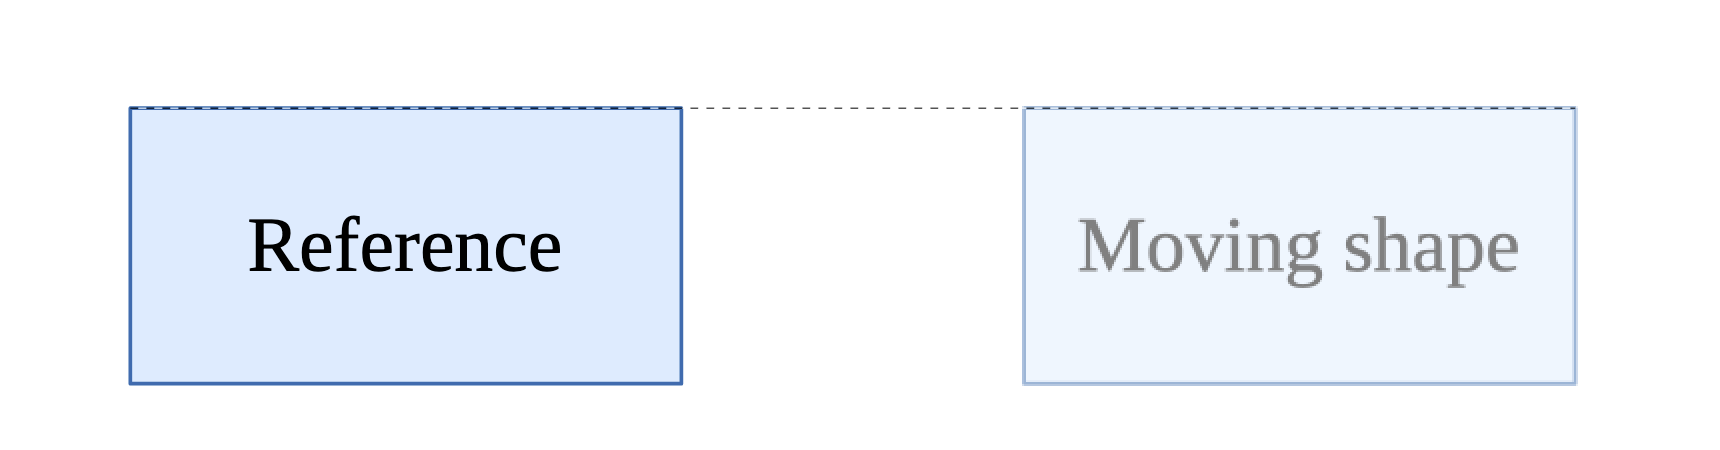
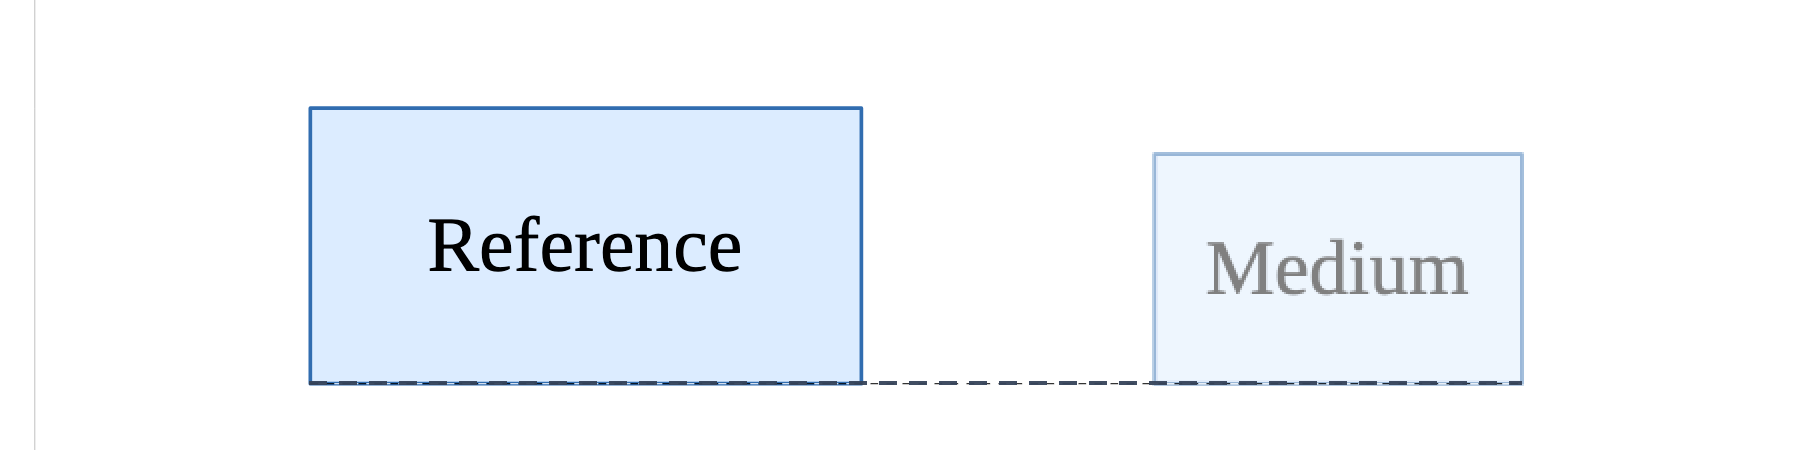
Refresh smart-guide screenshots at multiple sizes

Changed region(s): [[0.0616, 0.2178, 0.9244, 0.8711], [0.6471, 0.3111, 0.8628, 0.3733]]

diff --git a/README.md b/README.md
@@ -20,9 +20,14 @@ It is not a screenshot of the still-building 26.8.0 Jubei binaries.
 
 ![Cropped Draw smart-guide alignment during a live drag](docs/screenshots/smart-guides-live.png)
 
-This cropped frame was captured while dragging the moving rectangle toward the
-reference rectangle. The dashed horizontal alignment overlay spans the gap
-between their matching top edges while the drag is still in progress.
+This cropped frame was captured while dragging the medium rectangle toward the
+reference rectangle. The darker, thicker dashed overlay marks matching bottom
+edges while the drag is still in progress.
+
+![Cropped Draw smart-guide alignment with a smaller moving shape](docs/screenshots/smart-guides-small.png)
+
+The smaller-shape capture shows the same live guide at a different object size,
+with the moving shape ghost separated from the original object.
 
 ## Fork-specific: VSDX export
 
